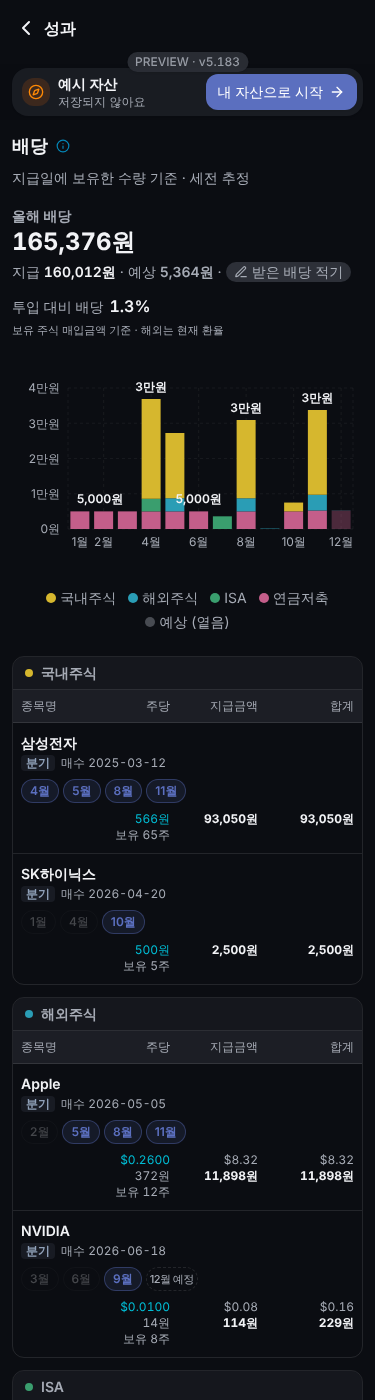
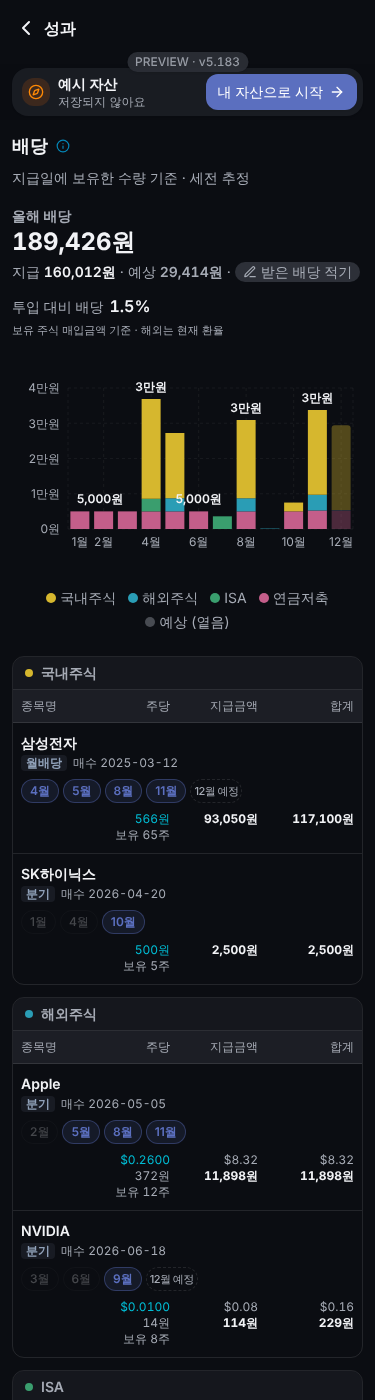
memory: 5.183 머지(v5.181)

diff --git a/issues/5.183-376-dividend-estimate/5.183-decision-brief.md b/issues/5.183-376-dividend-estimate/5.183-decision-brief.md
@@ -1,0 +1,64 @@
+# 5.183 decision-brief — PR #378 (head 556e23a0)
+
+## 판단: **승인(반영)** — #376 A(지난 달 추정 배당 제외)가 556e23a 기준 qa PASS. main 대비 악화 0, 저장·동기화·서버 전송 변경 0, risk:medium. CEO 승인 기록.
+
+| CEO 승인 조건 | 근거 | 충족 |
+|---|---|---|
+| ① 해당 커밋 qa PASS | qa-report '재qa(556e23a, main 병합)' 최종 PASS. src diff = A(17fe580)와 바이트 단위로 같음 | O |
+| ② CEO 사용자 관점 점검 PASS | 아래 절 전 항목 PASS(기존 결함 잔존 1건은 회귀가 아니라 표기) | O |
+| ③ Vercel preview success(head 일치) | 556e23a `Vercel` Preview success 11:30:21Z, CI check success. 번들로 커밋을 구별할 수 없어 qa가 로컬 빌드로 같은 결과를 확인함 | O |
+| ④ 하위호환·롤백 qa 확인 | qa 6절·재qa(0361410)·재qa(556e23a): 저장 관련 diff 0, main + squash → revert = 6bc2219b, 충돌 0, 기록 손실 0 | O |
+| ⑤ 머지 후 운영 스모크 | 아래 '실행 방법'의 관찰 항목 | 머지 후 |
+| 대표 승인 유지 대상 | risk:high 아님(스키마·키·동기화 변경 0, 캐시 버전만 올림). 대표 지적(11-28 19:40)에 대한 **첫 대응**이고, 대표가 반려한 영역을 다시 시도하는 것이 아님(DECISIONS 11-28 20:30, discovery ceo.md '위험·승인'). B를 걷어낸 것은 CEO 철회선에 따른 것이고 대표 반려가 아님. 원칙·결제·외부 게시·절대 규칙과 무관 | 해당 없음 |
+| 승인 불가 사유 | PRINCIPLES 위반 0. DECISIONS 11-28 20:30·22:20과 일치(B는 5.184로 이관). 데이터 안전 표 있음. CHECKLIST 전 항목 판정(1차 11절 + 재qa). tsx·문구 diff 0이라 ui-review 대상 아님 | 없음 |
+
+## CEO 사용자 관점 점검
+| # | 항목 | 판정 | 근거 |
+|---|---|---|---|
+| 1 | 실사용 형태에서 숫자가 상식에 맞는가 | PASS | 11월 기준 예상은 앞으로 받을 몫(12월분)만 남는다. 데모: 예상 189,164 → 29,414, 줄어든 159,750 = 실제로 없었던 지난 달 추정 합계와 정확히 같음. 지급 160,012는 변하지 않음 |
+| 2 | 한 항목만 비정상적으로 큰가·부호 | PASS(기존 결함 잔존 표기) | 삼성형 불규칙 분기(4·5·8·11)는 여전히 `월배당`으로 나오고, 12월 예상 24,050원(데모 예상의 82%)이 남는다. main에도 있던 결함이며 이번 릴리스가 만든 것이 아니다. 새로 생기는 추정은 0이다. 5.184 B 대상 |
+| 3 | 라벨·쪼개기·예측 남발 | PASS | 문구 변경 0. 예측은 줄었다(지난 달 `N월 예정` 0). 용어 통일은 5.184 C |
+| 4 | 다음 행동·중복 | PASS | Hero = 허브 카드 = 결론 줄(C65, qa 3절). 놓친 지급은 기존 '받은 배당 적기' 칩으로 남길 수 있음 |
+| 5 | 대표 지적 재발 | PASS | **"11월인데 7·9월 예정 배지?" 해소**: 1~11월 `예정` 0, 막대의 옅은 칸은 12월만 남는다(a556-local-div-375-dark.png). 7월을 누르면 '일부 예상' 없이 지급만 나온다 |
+| C133 | 예상 = 앞으로 받을 몫(허브 정의) | PASS | 이번 변경으로 정의와 실제 값이 같아졌다 |
+| C96·C40 | 서버(KIS) 실호출을 확인할 수 없음 | 관찰 신호로 대체 | 아래 '운영 스모크' |
+
+**숫자 감소의 수용성**: 배당 Hero·허브 카드·투입 대비 배당(데모 2.8% → 1.5%)이 크게 줄어든다. 이전 값이 부풀려진 오류였으므로 줄어드는 방향이 맞다. 다만 설명 없이 숫자만 바뀌므로 PR 본문 `새 소식:` 줄(C82)로 '지난 달 추정분이 빠져 배당 예상이 줄었어요'류 1줄을 권고한다(금액 없이). **성적표**: 새로 기록하는 배당 축 점수가 내려갈 수 있다. 이미 저장한 등급은 다시 계산하지 않는다(qa 6절).
+
+## 핵심 반영 내용
+- `#376` 지급일이 지난 달의 추정 배당을 예상·합계·배지에서 뺌(클라 `isPastEstimate`가 정본, 서버는 지난 달 후보를 만들지 않음). 캐시 v13·쿼리 키 v12. 빈도 판정(B)은 5.184로 옮김
+
+## 무엇이 바뀌나
+- 배당 탭에서 이미 지난 달에 붙던 `N월 예정` 배지와 옅은 막대가 사라진다
+- 올해 배당·예상·투입 대비 배당·허브 카드 숫자가 실제로 받은 금액과 남은 달 예상만큼으로 줄어든다
+- 성적표에 새로 기록하는 배당 점수가 내려갈 수 있다(이전 기록은 그대로)
+
+## 왜
+배당 숫자를 믿을 수 있어야 성과 화면에 다시 들어온다(월 활성 100명, 재방문). 유형: **버그**
+
+## 검증 결과
+자동 테스트 336파일 4,867건 통과 · tsc·lint 오류 0·build 0 · preview 점검(배당 탭 375 다크, 목 KIS) · 회귀 F-DIVIDEND-CALC, 5.182 전용 24건 — [5.183-qa-report.md](5.183-qa-report.md)
+
+## 화면
+- [screenshots/a556-local-div-375-dark.png](screenshots/a556-local-div-375-dark.png) — 556e23a, 1~11월 예정 0, 12월만 옅음
+- [screenshots/preview-div-375-dark.png](screenshots/preview-div-375-dark.png) — preview, Hero 189,426
+- 비교(main): [../_discovery/2026-11-28-dividend-tab-terms/screenshots/div-375-dark-july-selected.png](../_discovery/2026-11-28-dividend-tab-terms/screenshots/div-375-dark-july-selected.png)
+
+## 위험 등급: **medium**
+서버 라우트·공용 계산이 바뀌고 사용자에게 보이는 숫자가 크게 준다. 저장 변경은 0이다. 롤백은 squash revert(충돌 0). 되돌린 뒤에는 서버 v12 캐시(최대 30일)로 예전 숫자가 보이고, 기록 손실은 0이다.
+
+**남은 기존 결함(회귀 아님, 5.184 B)**: ① 삼성형 불규칙 분기 → `월배당` 오판, 12월 추정 24,050원(데모). 이 값은 A 규칙에 따라 2027-01-01에 빠진다. ② 연 1회 배당의 지급월이 1개월 바뀌면 월배당으로 오판한다. ③ 결함 의심(qa 확인 요청): 같은 빈도 오판 때문에 2027-01 이후 삼성형 종목은 남은 달 전체를 예상으로 잡을 수 있다(main도 같음). 그래서 5.184 B를 2027-01 전에 반영하는 것이 바람직하다. B가 폐기되면 빈도 배지 숨김 축소안만으로는 숫자가 고쳐지지 않는다는 점을 5.184 판정 때 다시 본다.
+
+## preview
+https://secretasset-git-issue-5183-bbplayworlds-projects.vercel.app — `/?trial=1` → `#activity/dividend`. preview에는 KIS 키가 없어 배당이 비어 있을 수 있다(C40: 화면 확인 불가, qa는 목 KIS + 실제 route GET으로 판정함).
+
+## 실행 방법
+- 승인: 머지 전에 오케스트레이터가 PR #378 본문을 확인한다(C92: 미리보기 issue-5183, `Closes #376`만 있음, 이슈 #377 없음, `새 소식:` 줄). 그다음 squash 머지 `[#5.183]` → Vercel 운영 자동 배포 → 즉시 운영 스모크(qa).
+- **운영 스모크·관찰(C96·C40)**: 확인 주체는 qa, 시점은 머지 직후 1회와 첫 정기 실행이다. 테스트 전용 데이터(체험)만 쓰고 실사용자 데이터는 만지지 않는다.
+  1. 표시 버전 5.183, pageerror 0, `/api/finance/dividend` 200
+  2. **운영 첫 조회 신호**: 국내 1종목·해외 1종목을 실제로 조회한다. 응답의 `isEstimated` 행에 **이번 달(2026-11)보다 앞선 날짜가 0건**이어야 한다(서버 v13 캐시가 새로 생성됐다는 증거). 확정 지급 행 수는 0이 아니어야 한다(KIS 성공). `X-KIS-Unavailable`이 붙거나 빈 배열이면 부분 실패로 기록하고 다시 조회한다
+  3. 삼성형 종목은 빈도 `월배당`·`12월 예정` 1건이 정상이다(기존 결함, 5.184). 1~11월 `예정`이 하나라도 있으면 결함
+  4. 배당 탭 Hero = 허브 카드 값(C65)
+  - 이상 시: revert PR → 머지(롤백 손실 0). 멈추는 스위치는 따로 없고 revert가 유일한 경로다(서버 cron·발송 없음)
+- 미승인 시: PR 닫기 + LEARNINGS 기록
+- **대표 사후 알림(한 줄)**: `5.183 반영: 배당 탭에서 지난 달에 붙던 '예정' 배지·추정분을 뺐습니다. 올해 배당·예상 숫자가 크게 줄고, 새로 기록하는 성적표 배당 점수가 내려갈 수 있습니다(기존 등급 유지). 삼성형 빈도 오판·용어 정리는 5.184.`

diff --git a/DASHBOARD.md b/DASHBOARD.md
@@ -1,6 +1,6 @@
 # 📋 시크릿에셋 대시보드
 
-> **마지막 갱신: 2026-11-28 20:40 KST** · 운영 최신 **v5.180** (스모크 PASS 20:28) · 운영 결함 없음 (Vercel 차단 해제 — 160.79.106.144/28 허용)
+> **마지막 갱신: 2026-11-28 20:35 KST** · 운영 최신 **v5.180** (스모크 PASS 20:28) · 운영 결함 없음 (Vercel 차단 해제 — 160.79.106.144/28 허용)
 > 반영 승인은 CEO 에이전트. 대표 결정은 risk:high·반려 영역 재시도·원칙 변경·결제·외부 게시만.
 > 지난 기록: [archive/DASHBOARD-2026-11-20.md](archive/DASHBOARD-2026-11-20.md)
 
@@ -88,3 +88,4 @@
 - 2026-11-28 20:30 **v5.180 운영 스모크 PASS**(qa, 번들 "5.180" 관측 20:28:08 KST = C144 판독 경계). 투자 유형 PNG 787ms 저장·빈 줄 0·preview와 바이트 동일, 다른 2종 정상, 현금·대출 확인창 360폭 2줄, 전송은 기존 xray-classify 1건(수량·금액 없음), 차단 0.
 - ⚠ 시각 정정: 이 절의 19:40~22:50 표기는 실제 시각보다 앞서 적힌 추정치. 실제 순서는 같고 모두 20:30 이전.
 - 2026-11-28 20:40 **5.183 PR #378 생성**(head 556e23a, main 6bc2219 병합·changelog 충돌 해소, src = A만). 병합 head 증분 qa 진행 → CEO 브리프.
+- 2026-11-28 20:35 **5.183 머지(CEO 승인, medium) → main c6fca54, 표시 v5.181** 배당 지난 달 '예정' 제외. 운영 스모크 진행 중. 다음: 5.184(#377) 용어·UI + B 빈도 판정(패턴표 선고정, 2027-01 전 반영 권고).

diff --git a/DECISIONS.md b/DECISIONS.md
@@ -888,3 +888,4 @@
 - 2026-11-28 22:50 **CEO 승인·squash 머지 5.182 → 표시 v5.180** (PR #375, head d3756c2 → main 6bc2219, #373·#374, risk:low). qa 재qa PASS(여유 0px 길어지는 카드 0%·측정 결정성·1자 어절 분할 0·확인창 248회 꺾임 0), ui 재검수 PASS, Vercel success, 롤백 충돌 0. 브리프 `issues/5.182-373-type-png-overflow/5.182-decision-brief.md`. C171 추가. 운영 스모크 진행 | ceo |
 - 2026-11-28 22:50 5.183(#376) A만 재qa PASS(head 0361410): 예상 189,164→29,414(감소분 159,750 = 지난 달 추정 합계), main 대비 악화 0. main 병합 후 PR·CEO 브리프 | qa |
 - 2026-11-28 20:30 v5.180 운영 스모크 PASS(번들 "5.180" 20:28:08 KST). ※ 오늘 20:30~22:50으로 적힌 결정 행은 실제로 20:30 이전(시각 추정 오기) | qa |
+- 2026-11-28 20:35 **CEO 승인·squash 머지 5.183 → 표시 v5.181** (PR #378, head 556e23a → main c6fca54, #376, risk:medium). A만(지난 달 추정 제외), B 5.184 이관. 데모 예상 189,164→29,414·Hero 349,176→189,426, 성적표 신규 배당 점수 하락 가능(기존 등급 유지). 새 소식은 5.184 용어 정리와 묶어 등록(C86). 브리프 `issues/5.183-376-dividend-estimate/5.183-decision-brief.md`. 5.184 B는 2027-01 전 반영 권고 | ceo |
